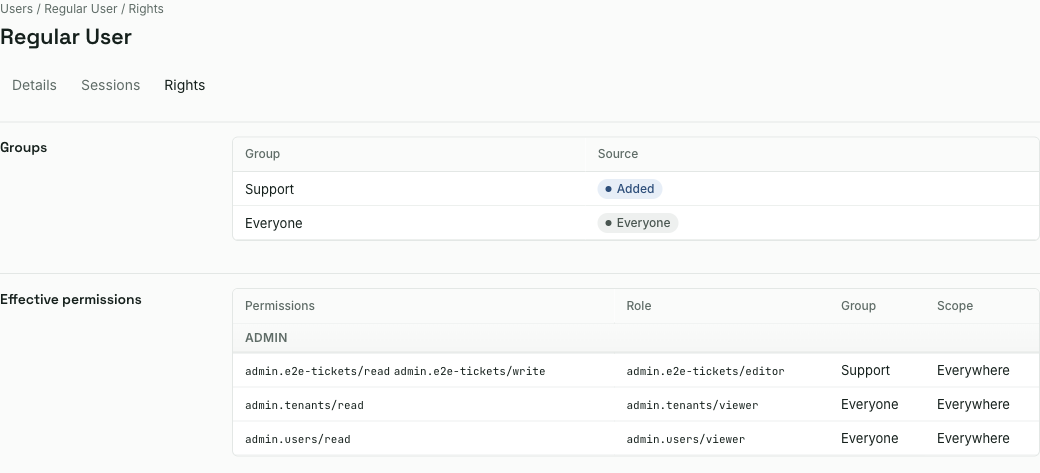
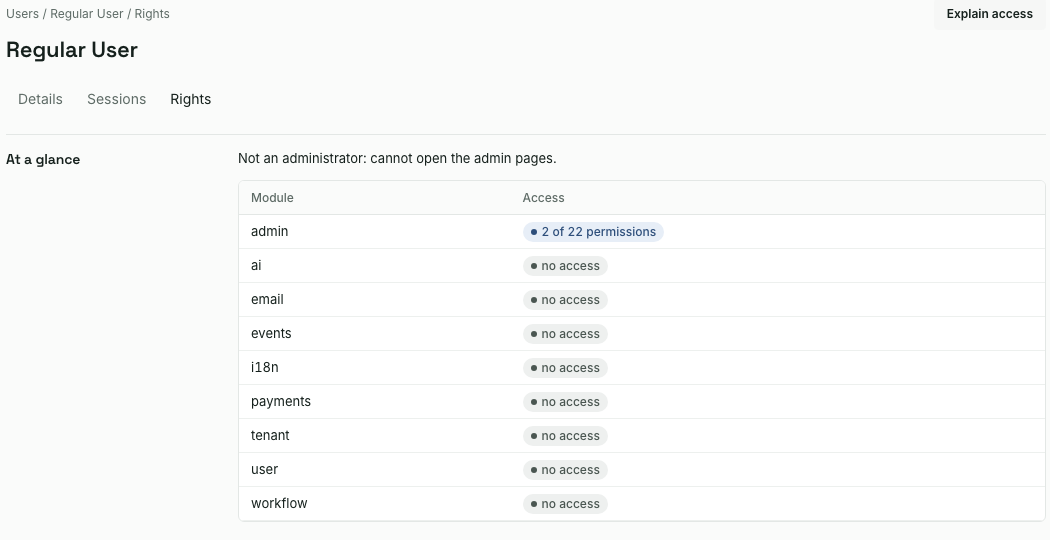
A user's Rights tab shows what they can and can't do (BOU-1000)

diff --git a/CHANGELOG.md b/CHANGELOG.md
@@ -45,6 +45,11 @@ for what is public API, what is internal, and how deprecations are announced.
 - `IUserService/get-user-by-email` (BOU-995): nil when the email has accounts in several tenants. Use
   `ITenantAccountLookup/get-user-by-tenant-and-email`.
 
+### Added
+
+- **A user's Rights tab shows what they can and can't do** (BOU-1000): per module at a glance, every permission held or
+  not with its reason, their roles, and whether they open the admin pages. Nothing to change in an app.
+
 ### Changed
 
 - **The admin service refuses a key that is not a field of the entity** (BOU-998), as a `:validation-error` on that
